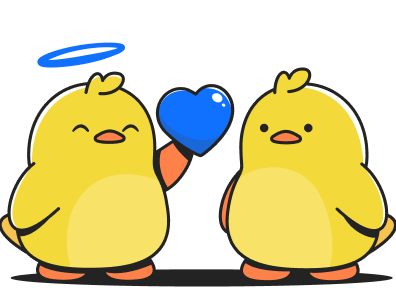
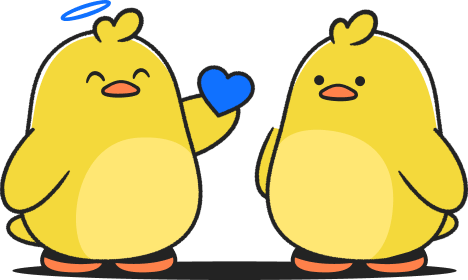
Refresh legacy kit mobile illustrations

diff --git a/mobile/packages/legacy/lib/pages/legacy_kit_advert_page.dart b/mobile/packages/legacy/lib/pages/legacy_kit_advert_page.dart
@@ -89,7 +89,7 @@ class _LegacyKitAdvertContent extends StatelessWidget {
   Widget build(BuildContext context) {
     return Column(
       children: [
-        _LegacyKitAdvertIllustration(colorScheme: colorScheme),
+        const _LegacyKitAdvertIllustration(),
         const SizedBox(height: 24),
         Text(
           "Create a legacy kit",
@@ -134,41 +134,15 @@ class _LegacyKitAdvertContent extends StatelessWidget {
 }
 
 class _LegacyKitAdvertIllustration extends StatelessWidget {
-  final EnteColorScheme colorScheme;
-
-  const _LegacyKitAdvertIllustration({required this.colorScheme});
+  const _LegacyKitAdvertIllustration();
 
   @override
   Widget build(BuildContext context) {
-    return SizedBox(
+    return Image.asset(
+      "assets/legacy_kit_advert_foreground.png",
       width: 200,
       height: 116,
-      child: Stack(
-        children: [
-          Positioned(
-            left: 34,
-            top: 14,
-            child: Container(
-              width: 132,
-              height: 97,
-              decoration: BoxDecoration(
-                color: colorScheme.primary700,
-                borderRadius: BorderRadius.circular(97),
-              ),
-            ),
-          ),
-          Positioned(
-            left: 37,
-            top: 0,
-            child: Image.asset(
-              "assets/legacy_kit_advert_foreground.png",
-              width: 120,
-              height: 115,
-              fit: BoxFit.contain,
-            ),
-          ),
-        ],
-      ),
+      fit: BoxFit.contain,
     );
   }
 }
